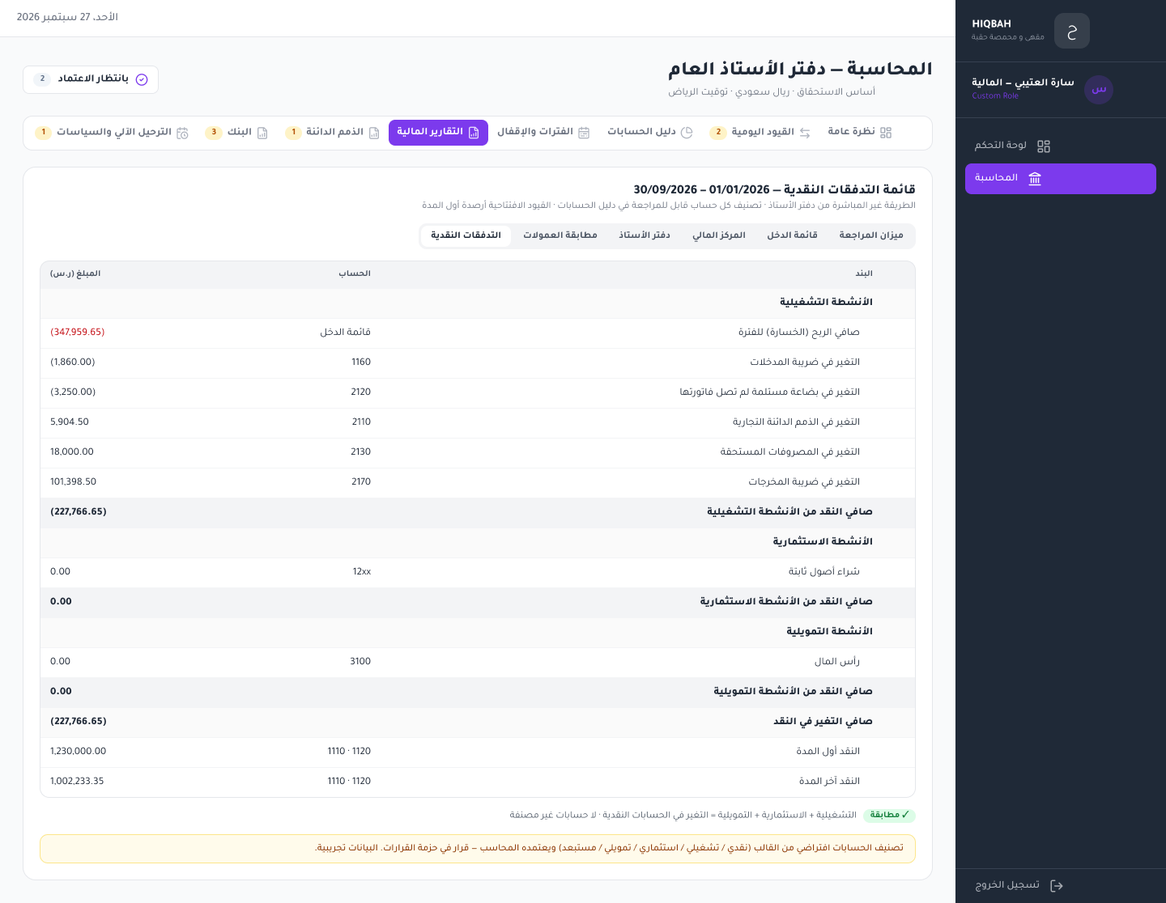
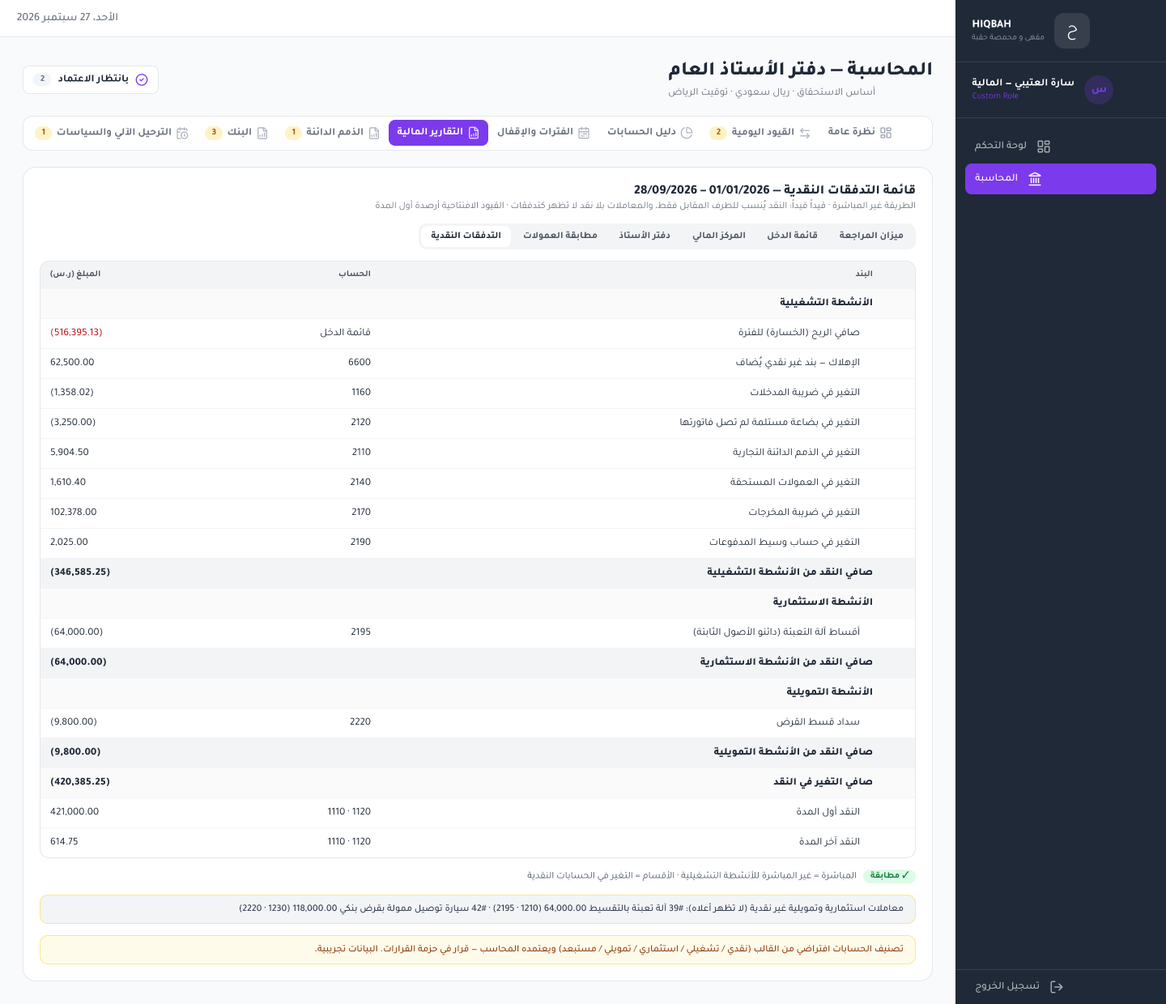
accounting: Stage 3 docs and visual evidence; decision pack, parity, matrix and limitations updated
- Figma exports ACC-27, ACC-28, ACC-30..36 and app captures; side-by-side images
  (tests/accounting/visual/side-by-side.mjs).
- STAGE_3_DESIGN.md (design, controls, tests, limitations); EVENT_JOURNAL_MAP stage 2/3 events.
- DECISION_PACK: transaction-aware cash-flow rules, 1290/2195/2220 classes, D-2 as a setting,
  provisional test assumptions. STAGE_2_DESIGN: posted-line correction workflow replaces the
  'edited after posting' limitation. MIGRATION_AND_CUTOVER: later migrations not yet rehearsed.
- REQUIREMENTS_MATRIX, DEFECTS_AND_LIMITATIONS, FIGMA_PARITY (a11y: 0 serious/critical, 33 views).

Claude-Session: https://claude.ai/code/session_018s6gzYhFWFpobJqPMRtBMT

diff --git a/src/lib/accounting/translators/bank.ts b/src/lib/accounting/translators/bank.ts
@@ -2,7 +2,9 @@
 // The cash side is the cash account's mapped GL account; the other side follows the Finance
 // module's budget splits (which always add up to the full line). A split whose category maps to
 // the payables control account posts only to the extent the line is matched to POSTED supplier
-// bills — those matches name the supplier. Receipts from customers wait for stage 3.
+// bills — those matches name the supplier. Customer receipts/refunds post once assigned to a
+// customer (CustomerReceipt): Cr AR_CONTROL for the allocated part, Cr CUSTOMER_ADVANCES + OUTPUT_VAT
+// (per decision D-2) for the rest, all tagged with the customer.
 import type { Prisma } from "@/generated/prisma/client";
 import { accountingDateOf } from "../dates";
 import { PostingBlocked } from "../errors";

diff --git a/docs/accounting/REQUIREMENTS_MATRIX.md b/docs/accounting/REQUIREMENTS_MATRIX.md
@@ -19,24 +19,24 @@ Legend: **V** implemented & verified (tests named) · **P** partial · **M** mis
 | 8.7 | Attachments | M | audit trail yes (FinAuditLog); attachments no |
 | 8.1 Master data | Hierarchical chart of accounts | V | account service (cycle/type checks) + template tests |
 | 8.1 | Branches / cost centres on lines | V | reuse Finance masters |
-| 8.1 | Customer/supplier tax data, terms, credit limits | P | Supplier VAT number (KSA format check), CR number, address, payment terms (`updateSupplierTaxData`, stage 2). Customer side waits for stage 3 |
+| 8.1 | Customer/supplier tax data, terms, credit limits | V (credit limit warns only) | Supplier (stage 2) and customer (stage 3: VAT number with KSA format check, CR number, payment terms, credit limit; `updateCustomerTaxData`) |
 | 8.1 | Product categories, UoM conversions, price lists | M | |
 | 8.2 Purchasing/AP | Supplier bills, approval, posting, payments, statements, aging | V (bills, payments, aging, statements) / M (landed cost, GRNI clearing, PO/receipt documents) | `stage2.test.ts` (13), `stage2-workflow.test.mjs` (4, runtime role). Bill lifecycle with four-eyes, immutability after posting, duplicate supplier invoice refused, VAT per line, obligation created on posting, reversal refused once paid, aging tied to 2110. A stock line goes to GRNI 2120, which is **provisional** pending D-1; landed cost and GRNI clearing need stage 4 |
 | 8.3 Inventory | Valuation, cost layers, GL reconciliation | M | quantity ledger only (pre-existing, Float) |
 | 8.4 Manufacturing | BOM costing, loss policy, lineage | M / R | needs D-1 decision |
-| 8.5 Sales/AR | Invoices, receipts, returns, advances, aging | M | D-2 recorded |
+| 8.5 Sales/AR | Invoices, receipts, returns, advances, aging | V (local, synthetic) / R (D-2, policies) | `receivables.test.ts` (10), `receivables-workflow.test.mjs` (3, runtime role), `STAGE_3_DESIGN.md`. Invoices and credit notes with four-eyes and immutability; receipts from bank lines (one posting; sales collections and commissions not duplicated); advances with D-2 as an approval-gated setting (undecided by default); aging and statements tied to 1130/2410/2170. No COGS (D-1), no ZATCA (stage 6) |
 | 8.6 Commissions | Accrual/payout/reversal/adjust → GL, exactly once, reconciled | V | commission tests + reconciliation report |
 | 8.6 | Plan approval gate for production posting | V | four-eyes trigger + gate tests |
-| 8.8 Cash/bank | Bank transactions → GL; reconciliation to GL | V | `stage2.test.ts`: confirmed and reviewed lines post once; voids are mirrored; transfers post once; unmapped lines are BLOCKED with a reason; customer receipts wait for stage 3 (D-2); manual journals on mapped bank accounts are refused after the start date. The reconciliation report itemises every difference. Limitation: a bank line edited after posting is not re-posted (`DEFECTS_AND_LIMITATIONS.md`) |
+| 8.8 Cash/bank | Bank transactions → GL; reconciliation to GL | V | `stage2.test.ts`: confirmed and reviewed lines post once; voids are mirrored; transfers post once; unmapped lines are BLOCKED with a reason; customer receipts wait for stage 3 (D-2); manual journals on mapped bank accounts are refused after the start date. The reconciliation report itemises every difference. Posted lines are frozen (service + DB triggers); changes go through a four-eyes void/replace correction with audit trail (`bank-corrections.test.ts` 8, `bank-corrections.test.mjs` 3) |
 | 8.8 | Budgets vs actual (accrual basis) | M | Finance budgets are cash-basis (pre-existing) |
 | 8.9 Reports | Trial balance, GL, journal, income statement, balance sheet | V | statements test, HTTP report test |
 | 8.9 | Commission accruals/payments reconciliation | V | |
-| 8.9 | Cash-flow statement | V (classification provisional) | `cashflow.test.ts` (3, hand-worked) and `cashflow-rules.test.ts`. Indirect method; checks that operating + investing + financing equals the change in cash. The template classification awaits the accountant (decision pack §7) |
-| 8.9 | Aging, statements, tax, inventory, profitability reports | P | AP aging and supplier statement (V); AR aging, tax, inventory and profitability reports missing |
+| 8.9 | Cash-flow statement | V (classification provisional) | Transaction-aware since 2026-09-28: `cashflow-transactions.test.ts` (6 regression cases written failing first: asset on credit, full/partial payment, loan-financed asset, depreciation, disposal gain/loss, internal transfers), `cashflow.test.ts`, `cashflow-engine.test.ts`, `cashflow-rules.test.ts`. Non-cash investing/financing disclosed separately; reconciled only if direct = indirect operating cash. Classes await the accountant (decision pack §7) |
+| 8.9 | Aging, statements, tax, inventory, profitability reports | P | AP and AR aging, supplier and customer statements (V); tax, inventory and profitability reports missing |
 | 9 Saudi localisation | E-invoicing, VAT returns, zakat | M | `ZATCA_REQUIREMENTS.md` |
 | 10 Engineering | Decimal money, idempotency, concurrency, audit | V | unit + DB tests |
 | 7 Figma | Designs for ledger workflows, implemented, compared | V (ledger screens) | `FIGMA_PARITY.md` |
-| 7.2 | Figma for AP, AR, inventory, manufacturing, banking, assets, ZATCA | V (AP, banking, cash flow: page 18, ACC-20..27) / M (AR, inventory, manufacturing, assets, ZATCA) | `FIGMA_PARITY.md` |
+| 7.2 | Figma for AP, AR, inventory, manufacturing, banking, assets, ZATCA | V (AP, banking, cash flow, corrections: page 18, ACC-20..28; AR: page 19, ACC-30..36) / M (inventory, manufacturing, assets, ZATCA) | `FIGMA_PARITY.md`, `evidence/side/` |
 | 13 Regression | Existing workflows remain functional | V | 26 regression suites; 11 failures all pre-existing at `fc64c05` |
 | 14 Migration | Rehearsed on a production copy | V | `MIGRATION_AND_CUTOVER.md` |
 | 15 Preview | Vercel Preview on isolated DB | **B** | GitHub push 403 (App not installed); Vercel 403 (team scope); sandbox cannot reach Neon (network policy) |
@@ -47,7 +47,7 @@ Legend: **V** implemented & verified (tests named) · **P** partial · **M** mis
 |---|---|---|
 | Runtime DB role (not owner) runs the app | V | `tests/accounting/http/runtime-workflow.test.mjs` 7/7 and `runtime-no-switch` 1/1 as `accounting_app` (DML only) |
 | Preview isolation guard before migrate/reset/seed | V (local) / B (Neon) | server-reported project, branch and endpoint ids plus the marker (`preview-target.mjs`, unit tests). Not yet run on Neon: no TCP 5432 |
-| Accessibility (WCAG 2.1 AA, automated) | V for ACC-01..27 (automated rules only) | `a11y.mjs`: 0 serious/critical over 23 views; the shell sidebar finding was fixed in separate commit `4015d3a` |
+| Accessibility (WCAG 2.1 AA, automated) | V for ACC-01..36 (automated rules only) | `a11y.mjs`: 0 serious/critical over 33 views (2026-09-28); the shell sidebar finding was fixed in separate commit `4015d3a` |
 | Regression, side by side with main | V | `REGRESSION_SIDE_BY_SIDE.md`: 11 identical failures, each explained and passing once its condition is corrected |
 | Credential incident | R (owner action) | `CREDENTIAL_INCIDENT.md`: procedure awaiting approval |
 | Accountant decisions | R | `DECISION_PACK.md` |
@@ -56,7 +56,7 @@ Legend: **V** implemented & verified (tests named) · **P** partial · **M** mis
 
 1. Ledger core + commissions: **done** (this branch).
 2. Bank-to-ledger + payables + cash-flow statement: **implemented and tested locally** (Figma ACC-20..27, code, DB, HTTP runtime-role, a11y). Not yet run on Neon or Vercel (access blocked). Production activation is gated by the decision pack.
-3. Sales invoices / receivables / advances (D-2): not started.
+3. Sales invoices / receivables / advances (D-2): **implemented and tested locally** (Figma ACC-30..36, code, DB, HTTP runtime-role, a11y). Same cloud and decision gates as stage 2.
 4. Inventory valuation + generic manufacturing costing (D-1).
 5. Fixed assets and depreciation; year-end close.
 6. Saudi localisation: ZATCA adapter (sandbox only), VAT return report.

diff --git a/docs/accounting/FIGMA_PARITY.md b/docs/accounting/FIGMA_PARITY.md
@@ -35,6 +35,23 @@ captures use the synthetic local fixture, so the figures differ from the design'
 | ACC-26 Mobile bill approval (390 px) | [`398:2`](https://www.figma.com/design/CYWypOA4538FYoTDUdGyP5/?node-id=398-2) | `/dashboard/accounting/payables?status=PENDING` at 390 px | ACC-26-app-390.png | Complete | The fixture has a different number of pending bills than the design. |
 | ACC-27 Cash-flow statement | [`399:2`](https://www.figma.com/design/CYWypOA4538FYoTDUdGyP5/?node-id=399-2) | `/dashboard/accounting/reports` → Cash flow | ACC-27-app-1440.png, ACC-27-en-app-1440.png, ACC-27-390-app-390.png | Complete | The app shows the account code inside the line label instead of a separate Account column. It omits zero-movement placeholder rows (the design's "12xx" and "3100" rows at 0.00). At 390 px the report switcher scrolls sideways inside its own container. |
 
+| ACC-28 Bank corrections | [`413:2`](https://www.figma.com/design/CYWypOA4538FYoTDUdGyP5/?node-id=413-2) (page 18) | `/dashboard/accounting/bank?view=corrections` | ACC-28-app-1440.png, ACC-28-request (capture) · side: `side/ACC-28-side.png` | Complete | Figma frames on page 18 predate the Receivables tab, so their tab row has one tab fewer. |
+
+### Page 19 — Receivables (Stage 3), [`407:2`](https://www.figma.com/design/CYWypOA4538FYoTDUdGyP5/?node-id=407-2)
+
+All figures in these frames and in the app captures are synthetic. The frames were drawn first; the app captures use the local fixture, so numbers and document numbers differ (INV-2045 in Figma, INV-1 in the fixture).
+Side-by-side images: `evidence/side/ACC-3x-side.png` (Figma left, app right), made by `tests/accounting/visual/side-by-side.mjs`.
+
+| Frame | Figma node (link) | Route | App evidence (`evidence/app/`) | Status | Documented differences |
+|---|---|---|---|---|---|
+| ACC-30 Sales invoices & credit notes | [`407:3`](https://www.figma.com/design/CYWypOA4538FYoTDUdGyP5/?node-id=407-3) | `/dashboard/accounting/receivables` | ACC-30-app-1440.png, ACC-30-en-app-1440.png | Complete | App adds "Customer receipts" and "Aging & statements" buttons beside "Sales invoice"; the "Open" column counts a receipt only once its bank line has posted and notes allocations still awaiting posting. |
+| ACC-31 Sales invoice editor | [`407:292`](https://www.figma.com/design/CYWypOA4538FYoTDUdGyP5/?node-id=407-292) | `/dashboard/accounting/receivables/new` (`?order=`, `?edit=`) | ACC-31-app-1440.png | Complete | Quote price and "order will be marked sent" notes appear only when an order is chosen (the capture has none). |
+| ACC-32 Invoice detail & approval | [`407:607`](https://www.figma.com/design/CYWypOA4538FYoTDUdGyP5/?node-id=407-607) | `/dashboard/accounting/receivables/[id]` | ACC-32-app-1440.png (posted), ACC-32-submitted-app-1440.png | Complete | App adds the allocations table, apply-advance and credit-note actions, and the audit trail below the journal. Rejection reason is entered after pressing "Reject". |
+| ACC-33 Customer receipts & assignment | [`407:890`](https://www.figma.com/design/CYWypOA4538FYoTDUdGyP5/?node-id=407-890) | `/dashboard/accounting/receivables/receipts` | ACC-33-app-1440.png, ACC-33-assign-app-1440.png | Complete | Figma shows D-2 set to "at receipt"; the fixture leaves D-2 undecided (the real state), so the app shows "not decided yet" and the advance line is held. The collection row of the Figma allocation table is shown in the app as a "from collection" badge beside the customer. |
+| ACC-34 AR aging & customer statement | [`407:1195`](https://www.figma.com/design/CYWypOA4538FYoTDUdGyP5/?node-id=407-1195) | `/dashboard/accounting/receivables/aging` | ACC-34-app-1440.png | Complete | App adds an "As of" date, a "Credits" column (unapplied credit notes and receipts) and, when advances exist, an advances card (2410 + VAT). The switcher scrolls to the statement card instead of hiding the aging. |
+| ACC-35 Credit note | [`407:1470`](https://www.figma.com/design/CYWypOA4538FYoTDUdGyP5/?node-id=407-1470) | `/dashboard/accounting/receivables/new?creditFor=[id]` | ACC-35-app-1440.png | Complete | Lines start empty (Figma shows two filled lines). |
+| ACC-36 Mobile approval (390 px) | [`407:1785`](https://www.figma.com/design/CYWypOA4538FYoTDUdGyP5/?node-id=407-1785) | `/dashboard/accounting/receivables?status=PENDING` at 390 px | ACC-36-app-390.png | Complete — layout difference accepted | App keeps the module header, tabs and filters above the cards; Figma shows only the cards. Only SUBMITTED documents get approve/reject; an APPROVED one shows its state. |
+
 Figma was synchronised to three implementation decisions: one page title for the module, no branch
 selector (the ledger is company-wide; branch is a line dimension), Arabic role labels.
 Evidence: `evidence/figma/ACC-*.png` (Figma exports), `evidence/app/ACC-*-app-*.png` (running app).
@@ -61,3 +78,6 @@ Second audit (Stage 2 and the cash-flow view, 2026-09-27): ACC-20..27 added to `
 result is 0 serious or critical findings across the 23 audited views. It is an automated
 WCAG 2.1 A/AA rule check of the accounting content and the shell around it. It is **not** a
 claim that the whole application is accessible, and no manual screen-reader test was done.
+
+Third audit (Stage 3, 2026-09-28): ACC-28 and ACC-30..36 added to `a11y.mjs`: 0 serious or critical
+findings over 33 views (same scope and caveats as above).

diff --git a/docs/accounting/STAGE_3_DESIGN.md b/docs/accounting/STAGE_3_DESIGN.md
@@ -1,0 +1,82 @@
+# Stage 3 — Sales invoices and receivables (design and status)
+
+Status (2026-09-28): **implemented and tested locally** on synthetic data. Not run on Neon or
+Vercel (cloud access blocked, see `NETWORK_ACCESS.md`). Production activation waits for the
+decision pack (D-2 and the `receivables.*` policies) and a release package. **Not ZATCA-integrated**:
+invoices carry the data a tax invoice needs, but nothing is signed, reported or cleared (stage 6,
+sandbox only).
+
+## 1. Documents
+
+| Document | Lifecycle | Journal on posting |
+|---|---|---|
+| Sales invoice | DRAFT → SUBMITTED → APPROVED (four-eyes) → POSTED → REVERSED | Dr 1130 receivables (party) / Cr revenue per line (default 4100) / Cr 2170 output VAT |
+| Credit note | same; must name a posted invoice of the same customer; total credits never exceed the invoice | Dr 4900 sales returns (net) / Dr 2170 / Cr 1130 (party); settles its invoice first |
+| Customer receipt | a bank line classified *customer receipt/refund*, assigned to a customer | Dr bank / Cr 1130 for the allocated part, Cr 2410 + Cr 2170 (per D-2) for the advance part, all party-tagged |
+| Advance application | applies a customer's advance to an open invoice | Dr 2410 (net) + Dr 2170 (VAT carried) / Cr 1130 (party) |
+
+Line arithmetic: quantity × price, discount %, then VAT, rounded half-up to halalas at each step
+(`sales-rules.ts`; 5,000-case property test `sales-math.test.ts` agrees with the UI helper).
+An order is invoiced at most once while its invoice is live (partial unique index); posting sets the
+order's VAT-invoice status to "Sent".
+
+## 2. Receipts and the existing collections and commissions
+
+- Cash posts **once**, from the bank line, and only after the line is assigned to a customer
+  (Accounting → Receivables → Customer receipts). Unassigned customer lines are BLOCKED with that
+  reason.
+- A bank line linked in Finance to a **finance-approved sales collection** proposes the customer
+  and cannot be assigned to another one. A collection can back only one receipt (checked, row-locked
+  and enforced by a unique index).
+- The sales collection itself never posts, and commissions keep posting from the commission ledger
+  as before. Test: one bank journal, commission journal count unchanged, no event for the collection
+  (`receivables.test.ts`, `receivables-workflow.test.mjs`).
+- POS and payment-gateway settlements stay with manual journals (not automated in this stage).
+
+## 3. Controls
+
+- Database triggers on every Stage 3 table: posted documents and their lines are immutable;
+  approval by someone other than the preparer/submitter; totals equal lines; allocations are
+  append-only (switched off, never edited or deleted), same customer, never beyond what is owed;
+  advance applications are reversed, not changed; a receipt whose bank line has posted cannot change
+  (correct it through Bank corrections, which releases its allocations).
+- Outbox events with idempotency keys `receivables:<id>:<event>` and per-customer ordering.
+- Duties: `ar_invoice_create`, `ar_invoice_approve`, `ar_invoice_post`, `ar_receipt_assign`
+  (plus `settings_manage` for the D-2 setting).
+- Policy gates: `receivables.recognition` for invoices/credit notes; `receivables.advances` **and**
+  the D-2 setting for anything that creates or applies an advance. Undecided → the posting waits
+  (provisional posting only in an isolated test database).
+
+## 4. Reports
+
+- AR aging as of a date, per customer, with unapplied credits; subledger total tied to 1130, and
+  advances tied to 2410 plus party-tagged 2170. A receipt counts only once its bank line has posted
+  (same rule in the invoice list and detail "Open").
+- Customer statement for a period, tied to the customer's party lines on 1130, 2410 and 2170; CSV.
+
+## 5. Screens (Figma page 19, ACC-30..36)
+
+List (ACC-30), editor (ACC-31), detail and approval (ACC-32), customer receipts and assignment
+(ACC-33), aging and statement (ACC-34), credit note (ACC-35), mobile approval (ACC-36). Parity and
+differences: `FIGMA_PARITY.md`.
+
+## 6. Tests
+
+| Level | File | Count |
+|---|---|---|
+| Unit | `tests/accounting/unit/sales-math.test.ts` (+ rules) | in the 23 unit tests |
+| DB integration | `tests/accounting/integration/receivables.test.ts` | 10 |
+| HTTP, runtime role | `tests/accounting/http/receivables-workflow.test.mjs` | 3 |
+| Browser | `capture.mjs` ACC-30..36, `a11y.mjs` (axe, WCAG 2.1 A/AA rules) | 8 views, 0 serious/critical |
+
+## 7. Known limitations
+
+- Aging "as of" a past date counts invoices that are POSTED **now**; an invoice reversed later is not
+  reconstructed for dates before its reversal.
+- Credit notes post their whole net to one returns account (4900); no per-line revenue reversal.
+- No cost of sales on invoices until D-1 (stage 4); no stock movement from credit notes.
+- The credit limit is shown as a warning only; it does not block.
+- Changing the D-2 setting affects receipts assigned afterwards; earlier advances keep their VAT.
+- The customer dropdown's "open receivables" figure counts every active allocation (including
+  receipts not yet posted), unlike aging.
+- No attachments; no e-mail of invoices or statements (by design: no messages to customers).

diff --git a/docs/accounting/DECISION_PACK.md b/docs/accounting/DECISION_PACK.md
@@ -147,6 +147,14 @@ Totals: revenue 20,000, VAT 3,000, cash 23,000, each once.
 **Legacy collections without an invoice** are not classified as advances automatically. Each one is
 checked against delivery records and the existing Qoyod entries, then flagged for review.
 
+**Implemented as a setting (2026-09-28).** Accounting → Receivables → Customer receipts shows a
+"VAT on advances (D-2)" selector: *at receipt*, *not at receipt*, or *not decided yet* (the
+default). Changing it needs the settings permission and is audited. It applies to receipts assigned
+from then on; posted receipts keep the VAT they posted with. Advance postings also need the
+`receivables.advances` policy approved (four-eyes). Until both are in place, a receipt that leaves
+an advance does not post. When an advance is applied to an invoice, the VAT it carried is released
+in proportion (Dr 2410 + Dr 2170 / Cr 1130), so VAT is not counted twice.
+
 **Please decide.**
 - confirm the treatment
 - the prepayment invoice workflow (issued by BeanFlow or by Qoyod until cutover)
@@ -193,11 +201,33 @@ default and is marked with * on the statement.
 |---|---|---|
 | 1110, 1120 (cash control) | Cash | These are the cash balances the statement explains |
 | 1130–1180 (receivables, VAT, prepayments, inventory, advances) | Operating | Working capital |
-| 1210–1230 (fixed assets) | Investing | Purchase or sale of long-term assets |
-| 1290 Accumulated depreciation | Operating | Depreciation is added back through operating |
-| 21xx, 22xx liabilities | Operating | Working capital and provisions |
+| 1210–1230 (fixed assets), 1290 Accumulated depreciation | Investing | Purchase or sale of long-term assets. Depreciation itself is a non-cash expense added back in operating (not a flow on 1290) |
+| 2195 Payables for fixed assets | Investing | Paying for an asset bought on credit is an investing outflow when paid, not when bought |
+| 2220 Long-term loans | Financing | Loan drawdowns and repayments |
+| other 21xx, 22xx liabilities | Operating | Working capital and provisions |
 | 3100 Capital and other equity | Financing | Owner funding |
 | 3200 Retained earnings, 3900 Opening balance equity | Excluded | Moves only through closing or opening entries. A non-zero movement here is flagged for review |
+
+**How flows are found (changed 2026-09-28).** The statement no longer infers flows from account
+balance movements alone, which could report fictitious flows for non-cash transactions (an asset
+bought on credit, an asset financed directly by a loan) while still appearing reconciled. It now
+works entry by entry:
+- Only entries that touch a cash account produce cash flows. The cash in an entry is split across
+  the entry's other lines on the opposite side, in proportion to their amounts, and each part takes
+  the class of its account.
+- In an entry that also has investing (else financing) lines, profit-and-loss lines follow that
+  activity (for example, a disposal's gain or loss sits with its proceeds).
+- A bank payment matched to a supplier bill takes the class of the bill's lines (a bill for a fixed
+  asset → investing for the net, operating for its VAT).
+- Entries with no cash line are **non-cash transactions**. Those that acquire investing or
+  financing items against liabilities or equity are listed separately as a disclosure (for example,
+  "machine 64,000 bought by instalments", "van 118,000 financed by a bank loan").
+- Operating cash is computed twice (directly and by the indirect method). The statement shows
+  "reconciled" only when both agree, the sections add up to the change in cash and nothing falls in
+  an excluded account.
+
+Regression tests with independently worked amounts: `tests/accounting/integration/cashflow-transactions.test.ts`
+(6 cases; the failing output before the fix is kept in `evidence/test-runs/cashflow-regression-before-fix.txt`).
 
 Questions for you:
 1. Should any loans or owner current accounts be added as **financing** accounts?
@@ -217,4 +247,10 @@ activation until replaced by your decisions:
   the disposable databases.
 - Stock lines on supplier bills post to GRNI 2120 (pending D-1).
 - The cash-flow classes in §7 are template defaults.
-- Customer receipts on the bank stay blocked until the receivables stage and D-2.
+- `receivables.recognition` is approved in the fixture; `receivables.advances` is prepared but
+  **not** approved, and the D-2 setting (VAT on advances) is left **undecided**, so a receipt that
+  leaves an advance is held in the fixture (the real state until you decide).
+- Where a test needs the advance to post, it runs in the isolated test database with provisional
+  posting, using "VAT at receipt" (the recommendation in §5) as the fallback. Such journals are
+  marked provisional and cannot occur outside that test mode.
+- Credit notes debit a single "sales returns and allowances" account (4900) for their net.

diff --git a/docs/accounting/DEFECTS_AND_LIMITATIONS.md b/docs/accounting/DEFECTS_AND_LIMITATIONS.md
@@ -15,6 +15,11 @@
 
 | 10 | Reconciliation listed a transfer's receiving leg as not posted | only the paying leg carries the event | the receiving leg counts as posted through its peer | `stage2.test.ts` transfer case; HTTP ACC-TILL = 0.00 |
 | 11 | Secondary text on the cash-flow view used a background colour token (`text-muted`, #F3F4F6) | wrong token | `text-muted-foreground` | found in review before commit |
+| 12 | Cash-flow statement could report fictitious operating/investing/financing flows for non-cash transactions (asset on credit, loan-financed asset) and still show "reconciled" | classes applied to balance movements, not to cash-bearing entries | transaction-aware engine: cash allocated per entry; non-cash transactions disclosed separately; reconciled requires direct = indirect | `cashflow-transactions.test.ts` (6, failing output before the fix kept in `evidence/test-runs/`) |
+| 13 | A posted bank line could be edited in Finance (amount, splits, matches, transfer link) without the ledger following | only confirm/void emitted events | frozen after posting (service + DB triggers); approved void/replace correction workflow | `bank-corrections.test.ts` (8), `bank-corrections.test.mjs` (3) |
+| 14 | AP aging "as of" a past date used today's matches; overpaid suppliers were dropped | matches read without dates | matches counted from their date; overpaid balances listed | `bank-corrections.test.ts` supplier case |
+| 15 | Sales invoice list counted paid invoices past due as "overdue", and showed an invoice as paid while its receipt had not posted (the aging disagreed) | count by due date only; all active allocations counted | overdue = unpaid past due; "open" counts receipts once their bank line has posted, with the awaiting part shown | found in Stage 3 visual review; list/aging agree in the captures |
+| 16 | Two bank lines claiming one sales collection at the same moment: the loser got a generic "record already exists" message | race reached the unique index | the collection row is locked before the check | `receivables-workflow.test.mjs` (concurrent claim, run 3×) |
 
 ## Pre-existing (reproduced identically on `main` @ `fc64c05`)
 All three now have a reproducible passing setup (`scripts/e2e/regression/local-certification.mjs`,
@@ -25,12 +30,16 @@ All three now have a reproducible passing setup (`scripts/e2e/regression/local-c
 - `reset-safety`: 8 checks need the reset-authorisation variable on the test server.
 
 ## Limitations (known, not defects)
-- Implemented: the ledger core, commission posting, payables (supplier bills), bank-to-ledger and
-  the cash-flow statement. Not implemented: AR/sales invoices, inventory valuation, manufacturing
-  costing, fixed assets, year-end close and ZATCA (see `REQUIREMENTS_MATRIX.md`).
-- A bank line edited after it has posted is not re-posted; the reconciliation report shows the
-  difference (`STAGE_2_DESIGN.md` §7).
-- Bill attachments are not implemented.
+- Implemented (locally, synthetic data): the ledger core, commission posting, payables, bank-to-ledger
+  with posted-line corrections, the cash-flow statement, and sales invoices/receivables (stage 3).
+  **Not** implemented: inventory valuation and COGS (D-1), manufacturing costing, fixed-asset
+  register and depreciation runs (depreciation is by manual journal), year-end close, ZATCA
+  (see `REQUIREMENTS_MATRIX.md`). The accounting system as a whole is **not complete** and **not
+  ZATCA-compliant**.
+- Stage 3 limitations: `STAGE_3_DESIGN.md` §7 (aging of later-reversed invoices, single returns
+  account, no COGS, credit limit warns only, D-2 changes apply forward only).
+- POS and payment-gateway settlements are journalised manually.
+- Bill and invoice attachments are not implemented.
 - Local tests use PostgreSQL 16; production is 17 (the rehearsal ran on 17).
 - `scripts/accounting/seed-local-fixture.ts` takes ~5 min in this sandbox (waiting, not CPU); cause not investigated.
 - Period "locked by" shows no name in the app; GL shows one view at a time.

diff --git a/docs/accounting/EVENT_JOURNAL_MAP.md b/docs/accounting/EVENT_JOURNAL_MAP.md
@@ -15,6 +15,24 @@ role / locked period / unapproved policy or plan → BLOCKED with the reason, re
 commissions payable reconciles to the commission ledger per employee, including a return after
 payout (negative balance = employee owes).
 
-**Not yet mapped (no source documents exist yet):** sales invoices, receipts, customer advances,
-credit notes, purchase orders/receipts/bills/payments, inventory movements and valuation,
-production and costing, bank transactions from Finance, fixed assets, payroll, year-end closing.
+## Stage 2 and 3 events (2026-09-28)
+
+| Source | Event | Gate | Journal | Party |
+|---|---|---|---|---|
+| `SupplierBill` POSTED | `ap.bill.posted` | `payables.recognition` | Dr each line's account (net) · Dr INPUT_VAT / Cr AP_CONTROL (gross) | SUPPLIER |
+| `SupplierBill` REVERSED | `ap.bill.reversed` | — | mirror of the posted journal, dated on the reversal | SUPPLIER |
+| `BankTransaction` confirmed and reviewed | `bank.transaction.confirmed` | `bank.posting` (+ start date) | Dr/Cr the cash account's GL account against the budget splits' accounts; payables splits only to the extent matched to posted bills; transfers post once from the paying leg | SUPPLIER on AP lines |
+| same, classified customer receipt/refund | `bank.transaction.confirmed` | `bank.posting`; advances also `receivables.advances` + D-2 | Dr bank / Cr AR_CONTROL (allocated) · Cr CUSTOMER_ADVANCES (net) · Cr OUTPUT_VAT (advance VAT per D-2); waits until assigned to a customer | CUSTOMER |
+| `BankTransaction` VOID (unposted, or through an approved correction) | `bank.transaction.voided` | — | mirror of the posted journal, dated on the void | as original |
+| `SalesInvoice` INVOICE POSTED | `ar.invoice.posted` | `receivables.recognition` | Dr AR_CONTROL (gross) / Cr revenue per line (net) · Cr OUTPUT_VAT | CUSTOMER |
+| `SalesInvoice` CREDIT_NOTE POSTED | `ar.credit_note.posted` | `receivables.recognition` | Dr SALES_RETURNS (net) · Dr OUTPUT_VAT / Cr AR_CONTROL (gross) | CUSTOMER |
+| `AdvanceApplication` POSTED | `ar.advance.applied` | `receivables.advances` + D-2 | Dr CUSTOMER_ADVANCES (net part) · Dr OUTPUT_VAT (VAT carried) / Cr AR_CONTROL | CUSTOMER |
+| any of the three above, REVERSED | `ar.*.reversed` | — | mirror, dated on the reversal | CUSTOMER |
+
+Idempotency keys: `payables:<id>:<event>`, `bank:<id>:confirmed|voided`, `receivables:<id>:<event>`.
+Sales collections and commissions keep their own paths: a sales collection never posts; the bank
+line does, once (`receivables.test.ts`, `receivables-workflow.test.mjs`).
+
+**Not yet mapped:** purchase orders/receipts as documents, inventory movements and valuation (COGS),
+production and costing, fixed assets and depreciation runs, payroll, year-end closing, POS/gateway
+settlements (manual journals).

diff --git a/docs/accounting/README.md b/docs/accounting/README.md
@@ -1,9 +1,13 @@
 # Accounting module — handover index
 
-Status on branch `feature/accounting-ledger-core` (based on `main` @ `fc64c05`, verified the latest
-through the GitHub API on 2026-09-27). **Increment 1 of the brief: the general ledger core.** This is
-not the complete accounting system the brief describes; `REQUIREMENTS_MATRIX.md` says exactly what
-exists, what is partial and what is missing.
+Status on branch `feature/accounting-ledger-core` (based on `main` @ `fc64c05`). Implemented and
+tested **locally on synthetic data**: stage 1 (ledger core, commissions), stage 2 (payables,
+bank-to-ledger, posted-line corrections, transaction-aware cash-flow statement) and stage 3 (sales
+invoices, credit notes, customer receipts and advances, AR aging and statements). Stages 4–6
+(inventory/COGS, manufacturing costing, fixed assets and year-end, ZATCA sandbox) are **not
+implemented**. This is not the complete accounting system the brief describes, and it is not
+ZATCA-compliant; `REQUIREMENTS_MATRIX.md` says exactly what exists, what is partial and what is
+missing. Nothing has been deployed or run against production.
 
 | Document | What it holds |
 |---|---|
@@ -20,6 +24,11 @@ exists, what is partial and what is missing.
 | [OPERATIONS_GUIDE.md](OPERATIONS_GUIDE.md) | Set-up and month-end procedure for the accountant |
 | [UAT_AR.md](UAT_AR.md) | قائمة اختبار القبول للمحاسب (بالعربية) |
 | [DEFECTS_AND_LIMITATIONS.md](DEFECTS_AND_LIMITATIONS.md) | Defects found and fixed, pre-existing failures, known limitations |
+| [STAGE_2_DESIGN.md](STAGE_2_DESIGN.md) | Payables, bank-to-ledger, posted-line corrections |
+| [STAGE_3_DESIGN.md](STAGE_3_DESIGN.md) | Sales invoices, receivables, advances, receipts, AR reports; status and limitations |
+| [DECISION_PACK.md](DECISION_PACK.md) | Decisions the accountant must take (D-1 costing, D-2 advances VAT, cash-flow classes, cutover) |
+| [RECOVERY_BUNDLE.md](RECOVERY_BUNDLE.md) | How to restore the unpushed branch from the incremental bundle (needs `fc64c05`) |
 | [RELEASE_PROPOSAL.md](RELEASE_PROPOSAL.md) | What would be released, gates, approvals needed, recovery plan |
 
-Evidence: `evidence/app/` (running application, synthetic fixture), `evidence/figma/` (Figma frames).
+Evidence: `evidence/app/` (running application, synthetic fixture), `evidence/figma/` (Figma frames),
+`evidence/side/` (Figma | app side by side, Stage 2 corrections and Stage 3), `evidence/test-runs/`.

diff --git a/docs/accounting/STAGE_2_DESIGN.md b/docs/accounting/STAGE_2_DESIGN.md
@@ -111,10 +111,17 @@ REJECTED and REVERSED:
 
 ## 7. Implementation notes and known limitations
 
-- **Bank line edited after posting.** Only the confirmation and the void emit events. An amount
-  or split edited after the line has posted is not re-posted. The reconciliation report shows the
-  resulting difference as an itemised line. Recommended fix before activation: void and re-enter,
-  or add an edit event with reversal.
+- **Bank line changed after posting — resolved 2026-09-28.** A posted line (or a transfer whose
+  peer has posted) is frozen: amount, date, account, classification, splits, supplier/collection
+  matches and the transfer link cannot change. This is enforced in the Finance services (clear 409
+  with a pointer to Accounting) and by database triggers that also refuse the runtime role. A
+  change goes through **Accounting → Bank → Corrections**: a correction request (void, or void and
+  replace) with a reason, approved by someone else. Approval voids the line (a mirror journal dated on the
+  approval day, whose period must be open; the original's period may be locked), creates the
+  replacement as a new line linked to the original, and posts it on its own date. A transfer can
+  only be voided (both legs), not replaced; the request, the decision and both journals stay in the audit trail. Tests:
+  `bank-corrections.test.ts` (8, including concurrent approvals, retries, closed periods, transfers
+  and supplier allocations) and `bank-corrections.test.mjs` (3, runtime role).
 - **Stock lines on bills** debit GRNI 2120. This is a **provisional test assumption** until D-1
   (inventory valuation) is decided; GRNI is not cleared until stage 4.
 - **Fixture approvals.** The local fixture approves the `payables.recognition` and `bank.posting`

diff --git a/docs/accounting/MIGRATION_AND_CUTOVER.md b/docs/accounting/MIGRATION_AND_CUTOVER.md
@@ -28,6 +28,13 @@ Target: Neon `dark-lab-61530722` / branch `rehearsal-accounting-ledger-core-2026
 Not rehearsed there: the new application build serving the copy as `erp_app` (needs a Preview on
 that branch — blocked, see `RELEASE_PROPOSAL.md`).
 
+**Later migrations not yet rehearsed on a production copy** (applied and tested only on the local
+disposable PostgreSQL 16 databases): `20260928120000_accounting_payables_bank`,
+`20260928130000_accounting_cash_flow_class`, `20260929090000_accounting_bank_corrections`,
+`20260929120000_accounting_receivables`. The receivables migration adds columns to the existing
+`Customer` table (nullable or defaulted) and triggers on new tables only; it must still be rehearsed
+on a fresh copy of production before any release package is proposed.
+
 ## Cutover (proposal — dates and figures are the business's decision, see POLICIES D-4)
 1. Accountant approves the chart (template adapted), creates the fiscal year, maps roles.
 2. Choose cutover date C. Import the Qoyod trial balance at C−1 as one OPENING entry (four-eyes)
